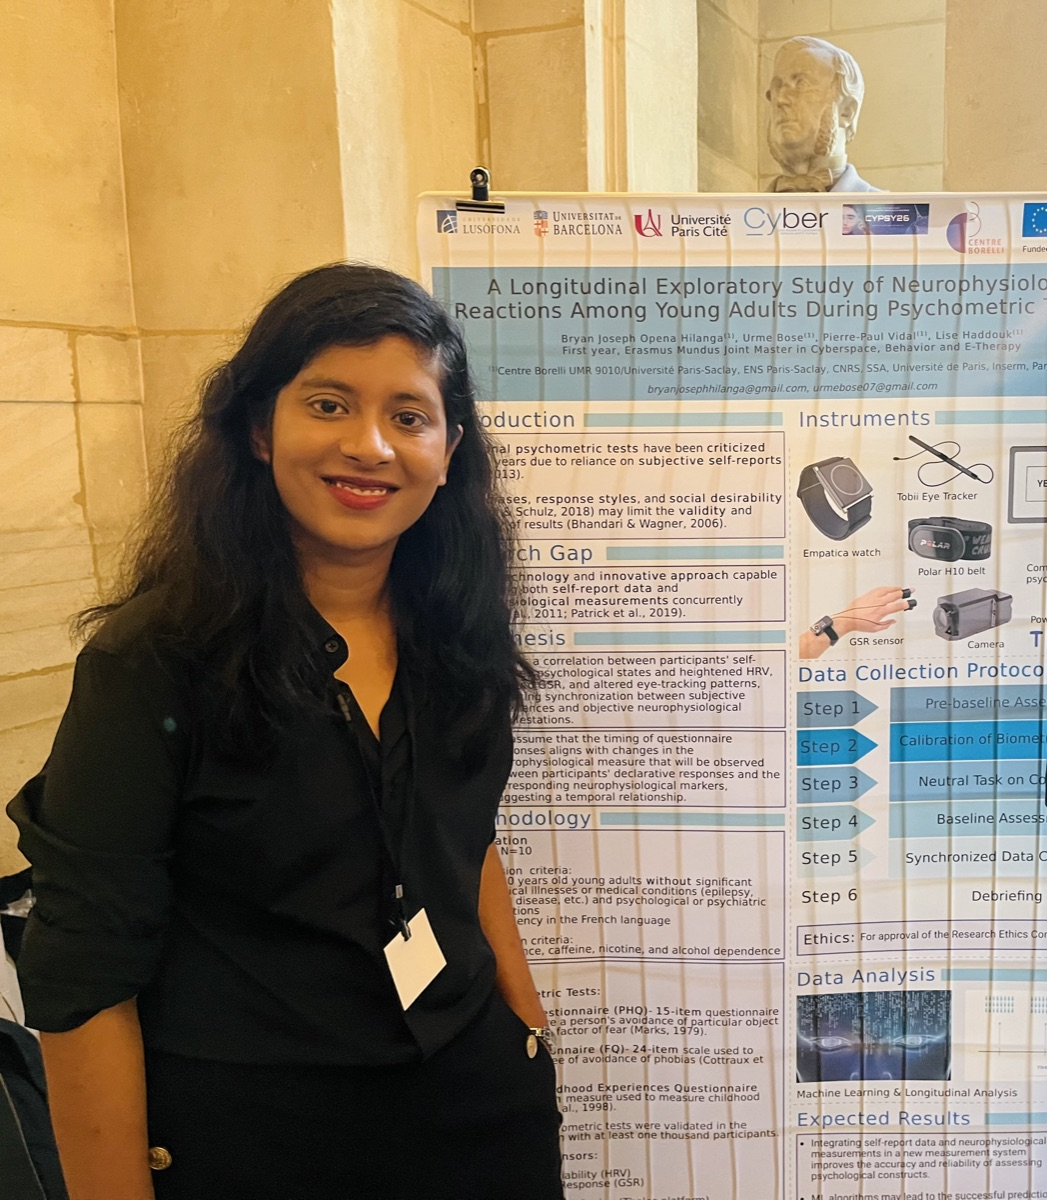
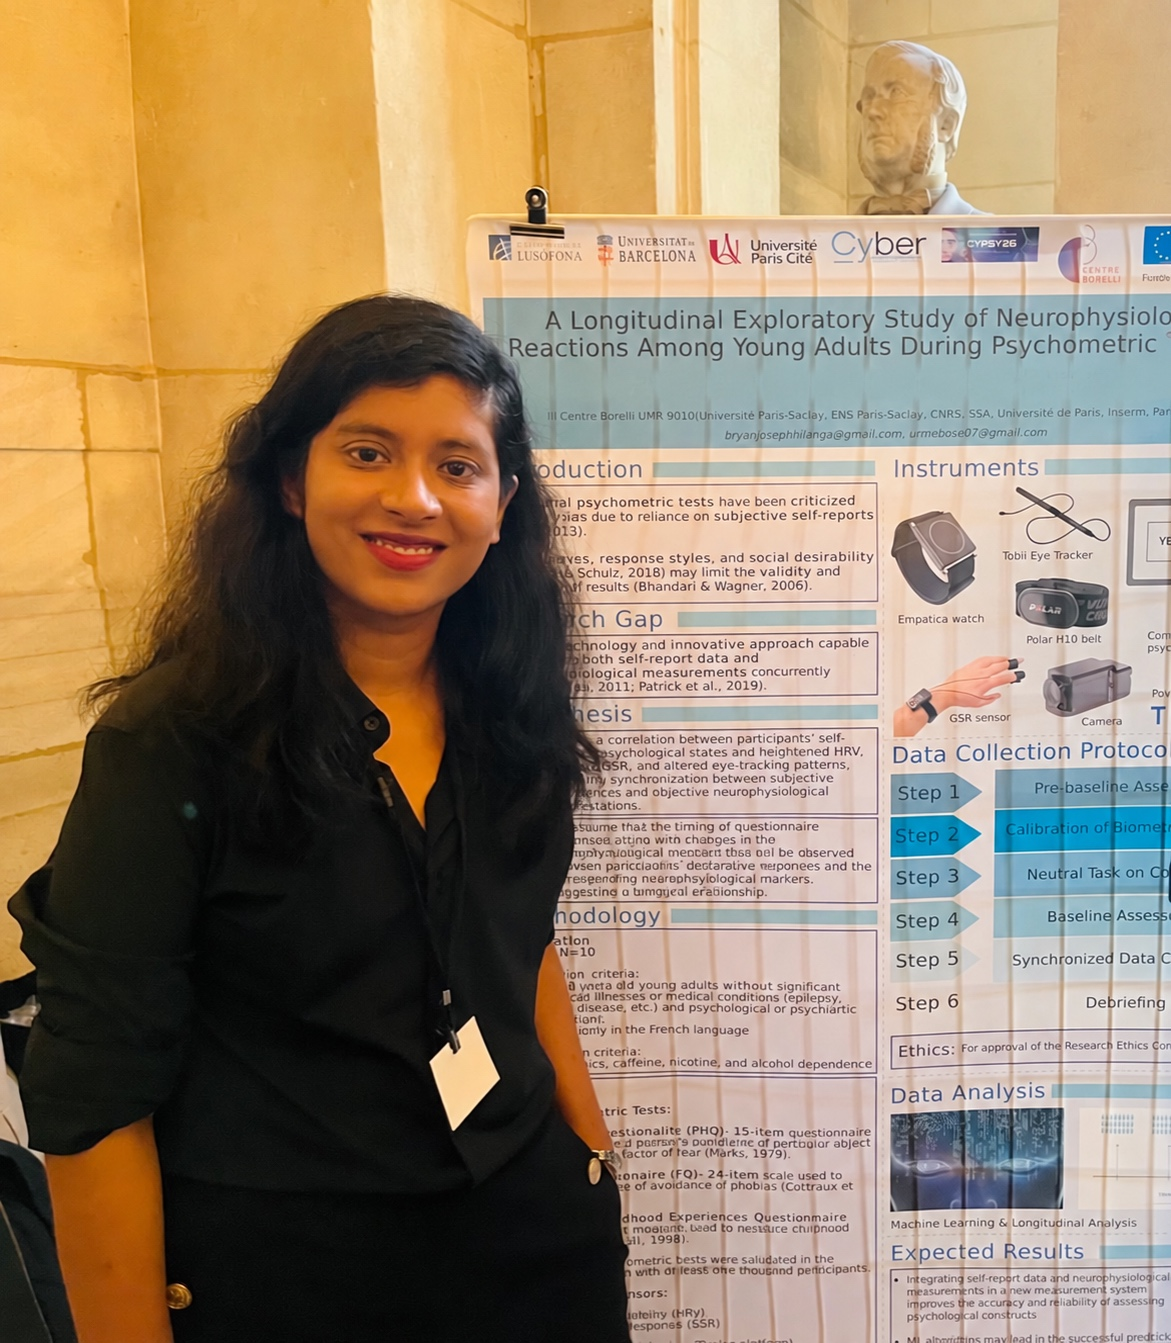
updated work

diff --git a/index.html b/index.html
@@ -6,18 +6,18 @@
   <meta name="color-scheme" content="light dark">
   <meta name="theme-color" content="#254f79" media="(prefers-color-scheme: light)">
   <meta name="theme-color" content="#0f0f11" media="(prefers-color-scheme: dark)">
-  <meta name="description" content="Urme: machine learning engineer and behavioural researcher. Wearable signals, longitudinal data and digital health.">
+  <meta name="description" content="urme: machine learning engineer and behavioural researcher. Wearable signals, longitudinal data and digital health.">
   <link rel="canonical" href="https://urmeo.github.io/portfolio/">
-  <meta property="og:title" content="Urme | Machine Learning Engineer">
+  <meta property="og:title" content="urme | Machine Learning Engineer">
   <meta property="og:description" content="Machine learning engineer and behavioural researcher. Wearable signals, longitudinal data and digital health.">
   <meta property="og:type" content="website">
   <meta property="og:url" content="https://urmeo.github.io/portfolio/">
   <meta property="og:image" content="https://urmeo.github.io/portfolio/assets/profile.jpeg">
   <meta name="twitter:card" content="summary_large_image">
-  <meta name="twitter:title" content="Urme | Machine Learning Engineer">
+  <meta name="twitter:title" content="urme | Machine Learning Engineer">
   <meta name="twitter:description" content="Machine learning engineer and computational behavioural researcher.">
   <meta name="twitter:image" content="https://urmeo.github.io/portfolio/assets/profile.jpeg">
-  <title>Urme | Machine Learning Engineer</title>
+  <title>urme | Machine Learning Engineer</title>
   <link rel="icon" href="assets/brand-mark.svg" type="image/svg+xml">
   <link rel="apple-touch-icon" href="assets/brand-mark.svg">
   <link rel="preload" as="image" href="assets/profile.jpeg" fetchpriority="high">
@@ -59,7 +59,7 @@
   </svg>
   <header class="site-header">
     <div class="site-shell header-shell">
-      <a class="site-brand" href="#home" aria-label="Urme home">
+      <a class="site-brand" href="#home" aria-label="urme home">
         <img
           src="assets/brand-mark.svg"
           alt=""
@@ -95,12 +95,12 @@
   </header>
 
   <main class="site-shell page-shell" id="content-root" tabindex="-1">
-    <section class="page-view" id="home" data-page="home" data-title="Urme | Machine Learning Engineer">
+    <section class="page-view" id="home" data-page="home" data-title="urme | Machine Learning Engineer">
       <div class="hero-block">
         <aside class="hero-media">
           <img
             src="assets/profile.jpeg"
-            alt="Portrait of Urme"
+            alt="Portrait of urme"
             class="profile-photo"
             loading="eager"
             fetchpriority="high"
@@ -123,7 +123,7 @@
         </aside>
 
         <div class="hero-copy">
-          <h1>Urme</h1>
+          <h1>urme</h1>
           <p class="hero-role">Machine learning · Behaviour · Biosignals · Digital health</p>
           <p class="hero-bio">Machine learning engineer and behavioural researcher.</p>
           <p class="hero-bio">
@@ -226,7 +226,7 @@
 
     </section>
 
-    <section class="page-view" id="education" data-page="education" data-title="Urme | Education" hidden>
+    <section class="page-view" id="education" data-page="education" data-title="urme | Education" hidden>
       <section class="page-title">
         <h1>Education</h1>
       </section>
@@ -349,7 +349,7 @@
 
     </section>
 
-    <section class="page-view" id="about" data-page="about" data-title="Urme | About" hidden>
+    <section class="page-view" id="about" data-page="about" data-title="urme | About" hidden>
       <section class="page-title">
         <h1>About Me</h1>
       </section>
@@ -500,7 +500,7 @@
   </main>
 
   <footer class="site-shell page-footer">
-    <p>&copy; <span data-year></span> Urme. All rights reserved.</p>
+    <p>&copy; <span data-year></span> urme. All rights reserved.</p>
   </footer>
 
   <script src="assets/js/script.js" defer></script>

diff --git a/404.html b/404.html
@@ -5,7 +5,7 @@
   <meta name="viewport" content="width=device-width, initial-scale=1.0">
   <meta name="color-scheme" content="light dark">
   <meta name="robots" content="noindex">
-  <title>404 | Urme</title>
+  <title>404 | urme</title>
   <link rel="icon" href="/portfolio/assets/brand-mark.svg" type="image/svg+xml">
   <link rel="apple-touch-icon" href="/portfolio/assets/brand-mark.svg">
   <script>
@@ -177,7 +177,7 @@
   <header class="header">
     <a href="/portfolio/" style="display:flex;align-items:center;gap:0.7rem;text-decoration:none;color:inherit;">
       <img src="/portfolio/assets/brand-mark.svg" alt="">
-      <span>Urme</span>
+      <span>urme</span>
     </a>
   </header>
 
@@ -195,7 +195,7 @@
   </main>
 
   <footer class="footer">
-    <p>&copy; <span id="year"></span> Urme</p>
+    <p>&copy; <span id="year"></span> urme</p>
   </footer>
 
   <script>
